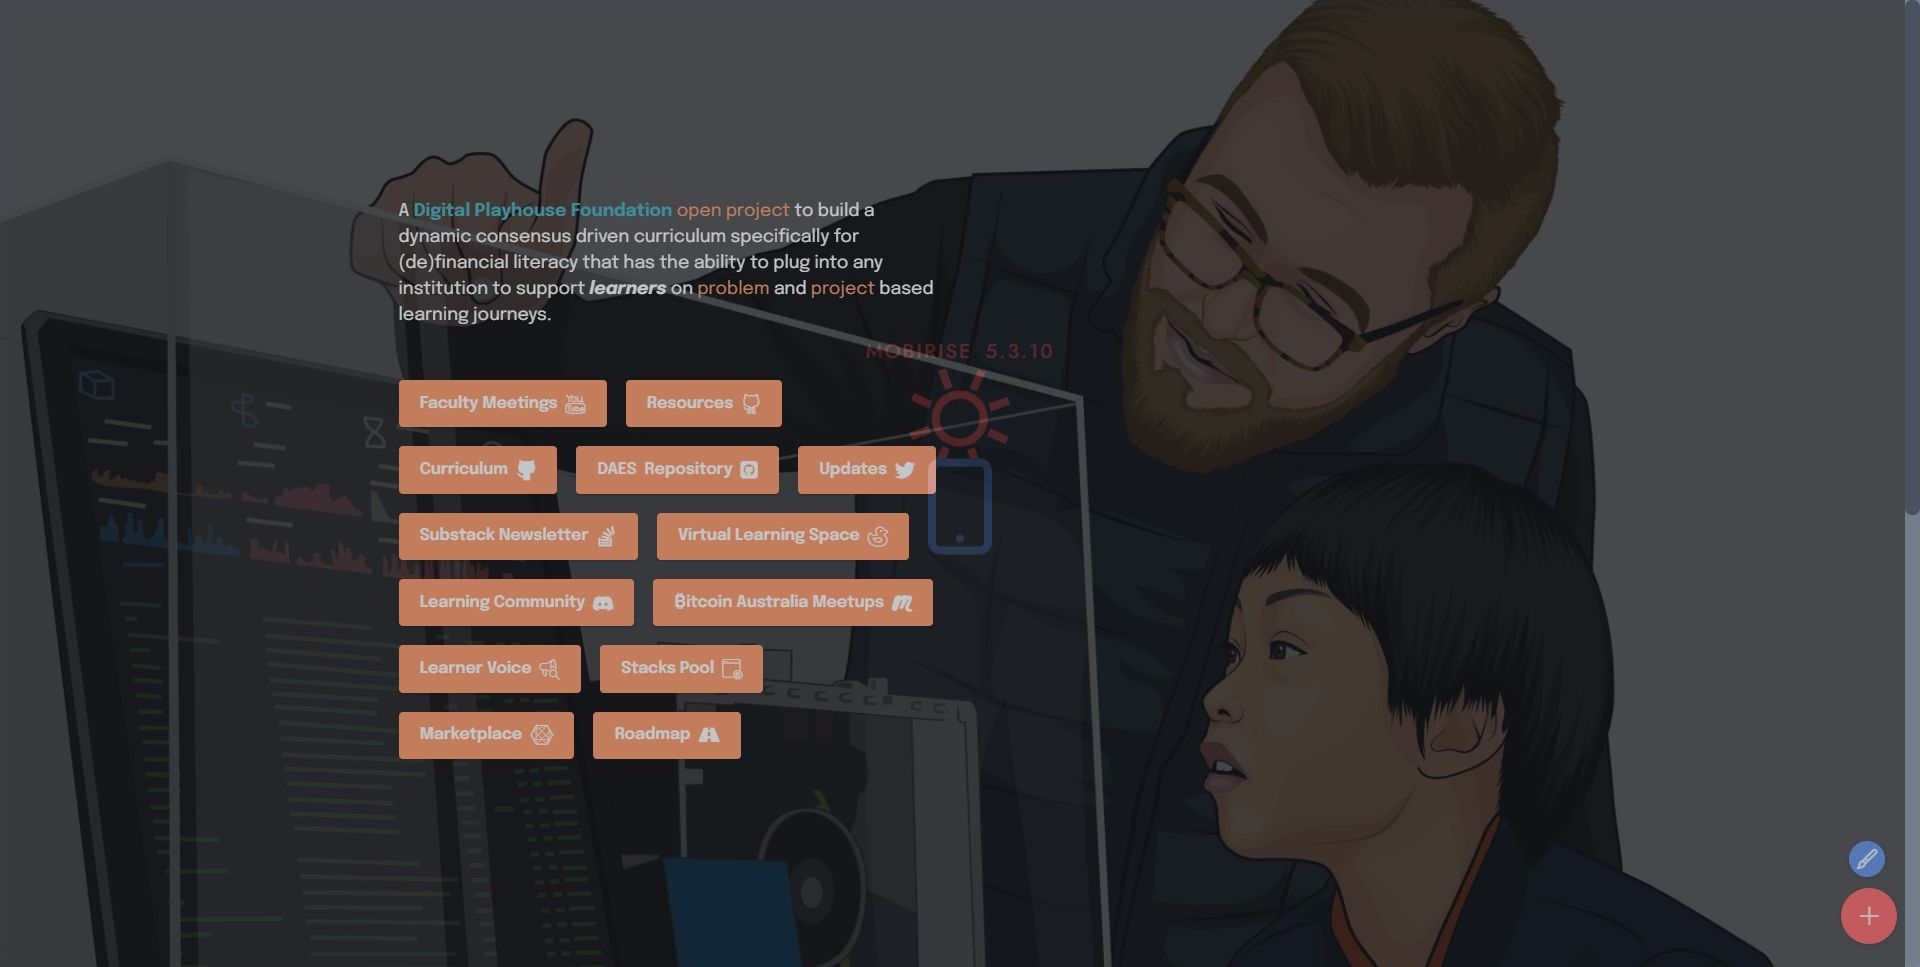
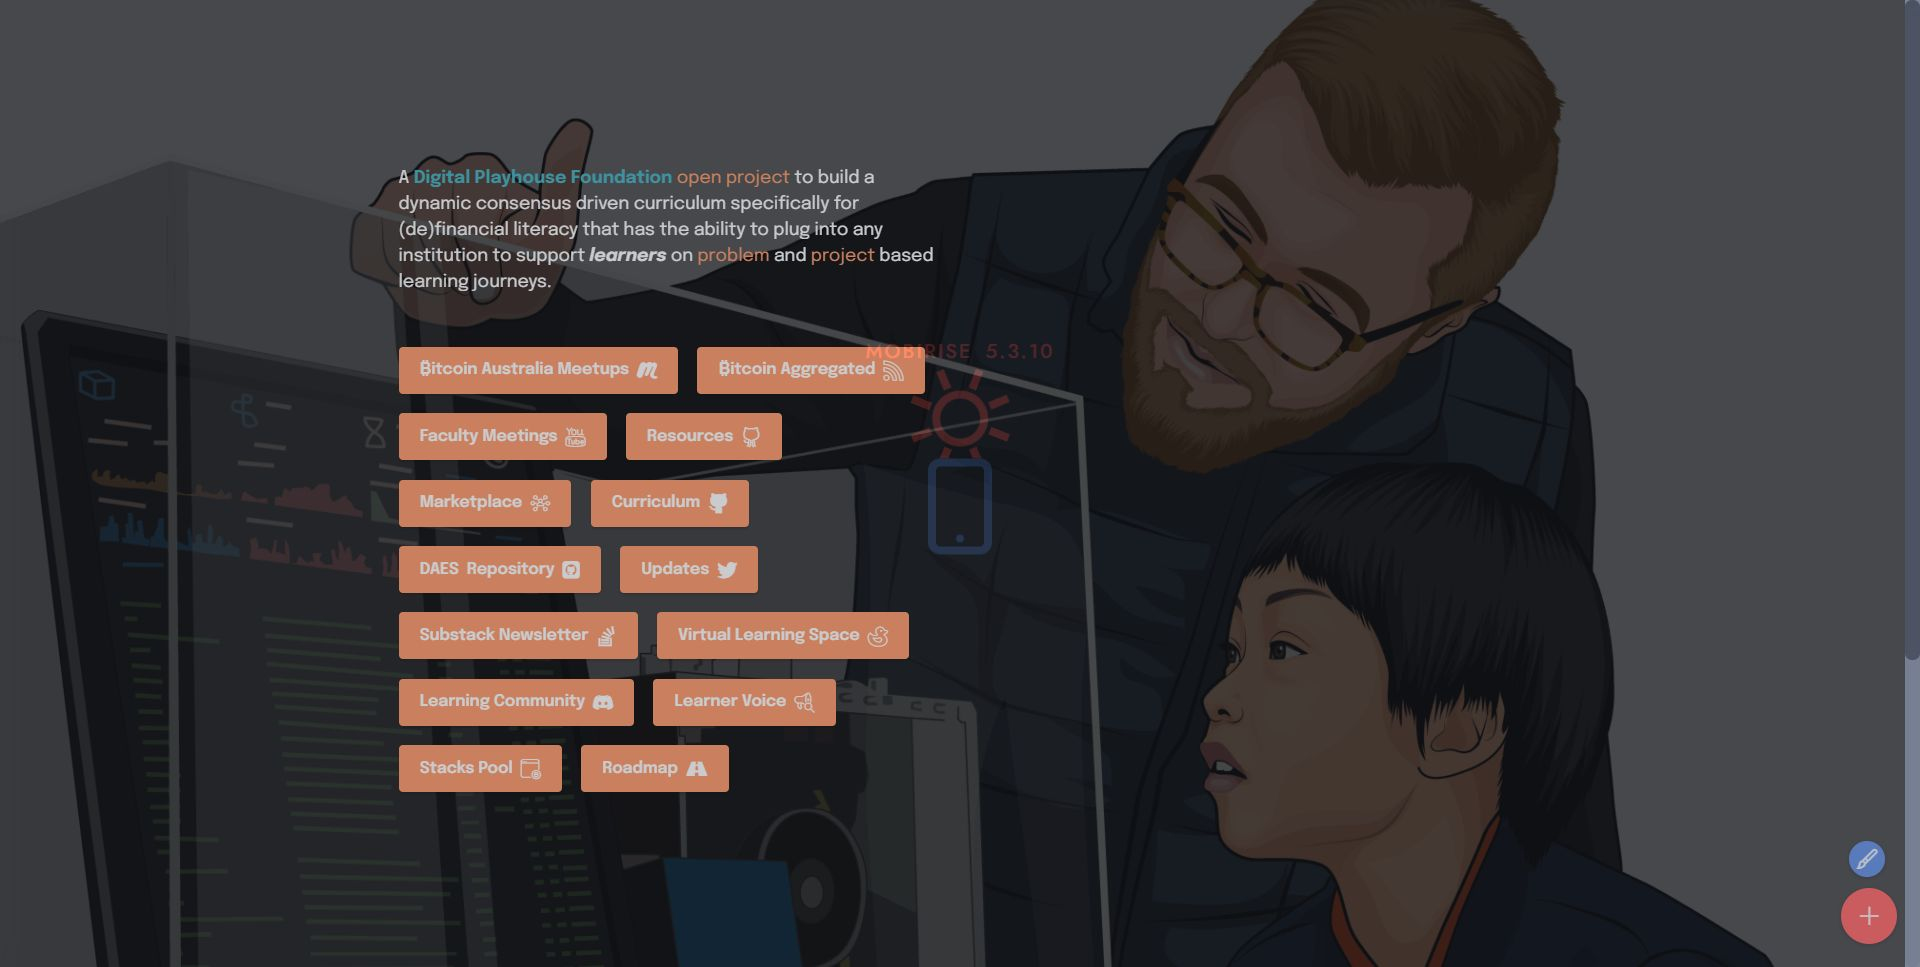
https://zoom.us/j/92727917932?pwd=TFVIOU83aXlHaENrZXBZZGd1dE1HQT09
https://zoom.us/j/92727917932?pwd=TFVIOU83aXlHaENrZXBZZGd1dE1HQT09

Changed region(s): [[0.1875, 0.1551, 0.5, 0.8376], [0.9688, 0.5274, 1.0, 0.6825]]

diff --git a/learnervoice.html b/learnervoice.html
@@ -12,11 +12,11 @@
   
   <title>learner voice</title>
   <link rel="stylesheet" href="assets/web/assets/mobirise-icons2/mobirise2.css">
-  <link rel="stylesheet" href="assets/FontAwesome/css/font-awesome.css">
+  <link rel="stylesheet" href="assets/web/assets/mobirise-icons/mobirise-icons.css">
   <link rel="stylesheet" href="assets/icon54-v2/style.css">
   <link rel="stylesheet" href="assets/icon54-v3/style.css">
+  <link rel="stylesheet" href="assets/FontAwesome/css/font-awesome.css">
   <link rel="stylesheet" href="assets/iconsMind/style.css">
-  <link rel="stylesheet" href="assets/web/assets/mobirise-icons/mobirise-icons.css">
   <link rel="stylesheet" href="assets/tether/tether.min.css">
   <link rel="stylesheet" href="assets/bootstrap/css/bootstrap.min.css">
   <link rel="stylesheet" href="assets/bootstrap/css/bootstrap-grid.min.css">
@@ -35,26 +35,7 @@
 </head>
 <body>
   
-  <section data-bs-version="5.1" class="menu menu1 cid-sYxxvlLIRv" once="menu" id="menu1-1e">
-    
-
-    <nav class="navbar navbar-dropdown navbar-expand-lg">
-        <div class="container-fluid">
-            <div class="navbar-brand">
-                <span class="navbar-logo">
-                    <a href="index.html">
-                        <img src="assets/images/smaller-thebitcoinschool-icon-341x243.png" alt="" style="height: 3rem;">
-                    </a>
-                </span>
-                <span class="navbar-caption-wrap"><a class="navbar-caption text-white display-7" href="#">The School of ₿itcoin</a></span>
-            </div>
-            
-            
-        </div>
-    </nav>
-</section>
-
-<section class="header10 cid-t8SRVa7gdn" id="header10-1n">
+  <section class="header10 cid-t8SRVa7gdn" id="header10-1n">
 
     
 
@@ -162,16 +143,16 @@
 
                 <div class="content-block">
                     <div class="accordion-content">
-                        <div id="bootstrap-accordion_9" class="panel-group accordionStyles accordion " role="tablist" aria-multiselectable="true">
+                        <div id="bootstrap-accordion_8" class="panel-group accordionStyles accordion " role="tablist" aria-multiselectable="true">
                             <div class="card">
                                 <div class="card-header" role="tab" id="headingOne">
-                                    <a role="button" class="collapsed panel-title" data-toggle="collapse" data-core="" href="#collapse1_9" aria-expanded="false" aria-controls="collapse1">
+                                    <a role="button" class="collapsed panel-title" data-toggle="collapse" data-core="" href="#collapse1_8" aria-expanded="false" aria-controls="collapse1">
                                         <h4 class="mbr-fonts-style header-text mbr-white mbr-semibold display-5">1</h4>
                                         <span class="sign mbr-iconfont mobi-mbri-plus inactive"></span>
 
                                     </a>
                                 </div>
-                                <div id="collapse1_9" class="panel-collapse noScroll collapse" role="tabpanel" aria-labelledby="headingOne" data-parent="#bootstrap-accordion_9">
+                                <div id="collapse1_8" class="panel-collapse noScroll collapse" role="tabpanel" aria-labelledby="headingOne" data-parent="#bootstrap-accordion_8">
                                     <div class="panel-body pt-4">
                                         <p class="mbr-fonts-style panel-text mbr-text mbr-white mb-3 mbr-regular display-4">What being independent means to me is being able to do things for yourself and being able to do what you what you want to. Yes being independent is important to me so that I can live my full potential<br></p>
                                     </div>
@@ -180,13 +161,13 @@
 
                             <div class="card">
                                 <div class="card-header" role="tab" id="headingTwo">
-                                    <a role="button" class="collapsed panel-title" data-toggle="collapse" data-core="" href="#collapse2_9" aria-expanded="false" aria-controls="collapse2">
+                                    <a role="button" class="collapsed panel-title" data-toggle="collapse" data-core="" href="#collapse2_8" aria-expanded="false" aria-controls="collapse2">
                                         <h4 class="mbr-fonts-style header-text mbr-white mbr-semibold display-5">2</h4>
                                         <span class="sign mbr-iconfont mobi-mbri-plus inactive"></span>
                                     </a>
 
                                 </div>
-                                <div id="collapse2_9" class="panel-collapse noScroll collapse" role="tabpanel" aria-labelledby="headingTwo" data-parent="#bootstrap-accordion_9">
+                                <div id="collapse2_8" class="panel-collapse noScroll collapse" role="tabpanel" aria-labelledby="headingTwo" data-parent="#bootstrap-accordion_8">
                                     <div class="panel-body pt-4">
                                         <p class="mbr-fonts-style panel-text mbr-text mbr-white mb-3 mbr-regular display-4">To me it means to do something by myself without the need of help. personally I find that doing something myself feels a lot more rewarding. I tend to procrastinate alot and it stops slows me down.<br></p>
                                     </div>
@@ -195,13 +176,13 @@
 
                             <div class="card">
                                 <div class="card-header" role="tab" id="headingThree">
-                                    <a role="button" class="collapsed panel-title" data-toggle="collapse" data-core="" href="#collapse3_9" aria-expanded="false" aria-controls="collapse3">
+                                    <a role="button" class="collapsed panel-title" data-toggle="collapse" data-core="" href="#collapse3_8" aria-expanded="false" aria-controls="collapse3">
                                         <h4 class="mbr-fonts-style header-text mbr-white mbr-semibold display-5">3</h4>
                                         <span class="sign mbr-iconfont mobi-mbri-plus inactive"></span>
 
                                     </a>
                                 </div>
-                                <div id="collapse3_9" class="panel-collapse noScroll collapse" role="tabpanel" aria-labelledby="headingThree" data-parent="#bootstrap-accordion_9">
+                                <div id="collapse3_8" class="panel-collapse noScroll collapse" role="tabpanel" aria-labelledby="headingThree" data-parent="#bootstrap-accordion_8">
                                     <div class="panel-body pt-4">
                                         <p class="mbr-fonts-style panel-text mbr-text mbr-white mb-3 mbr-regular display-4">It means that I can achieve things on my own. Yes it is important to me because I look forward to achieving my goal. Sometimes I get distracted by people talking but I achieve my goal in the end.&nbsp;<br></p>
                                     </div>
@@ -210,13 +191,13 @@
 
                             <div class="card">
                                 <div class="card-header" role="tab" id="headingFour">
-                                    <a role="button" class="collapsed panel-title" data-toggle="collapse" data-core="" href="#collapse4_9" aria-expanded="false" aria-controls="collapse4">
+                                    <a role="button" class="collapsed panel-title" data-toggle="collapse" data-core="" href="#collapse4_8" aria-expanded="false" aria-controls="collapse4">
                                         <h4 class="mbr-fonts-style header-text mbr-white mbr-semibold display-5">4</h4>
                                         <span class="sign mbr-iconfont mobi-mbri-plus inactive"></span>
 
                                     </a>
                                 </div>
-                                <div id="collapse4_9" class="panel-collapse noScroll collapse" role="tabpanel" aria-labelledby="headingFour" data-parent="#bootstrap-accordion_9">
+                                <div id="collapse4_8" class="panel-collapse noScroll collapse" role="tabpanel" aria-labelledby="headingFour" data-parent="#bootstrap-accordion_8">
                                     <div class="panel-body pt-4">
                                         <p class="mbr-fonts-style panel-text mbr-text mbr-white mb-3 mbr-regular display-4">Being able to achieve things on my own. Yes it is important to me because I look forward to achieving my goal. I get distracted by people sometimes but I do achieve my goal in the end.&nbsp; &nbsp; &nbsp;</p><p></p><p></p>
                                     </div>
@@ -225,13 +206,13 @@
 
                             <div class="card">
                                 <div class="card-header" role="tab" id="headingFive">
-                                    <a role="button" class="collapsed panel-title" data-toggle="collapse" data-core="" href="#collapse5_9" aria-expanded="false" aria-controls="collapse5">
+                                    <a role="button" class="collapsed panel-title" data-toggle="collapse" data-core="" href="#collapse5_8" aria-expanded="false" aria-controls="collapse5">
                                         <h4 class="mbr-fonts-style header-text mbr-white mbr-semibold display-5">5</h4>
                                         <span class="sign mbr-iconfont mobi-mbri-plus inactive"></span>
 
                                     </a>
                                 </div>
-                                <div id="collapse5_9" class="panel-collapse noScroll collapse" data-parent="#bootstrap-accordion_9" role="tabpanel" aria-labelledby="headingFive">
+                                <div id="collapse5_8" class="panel-collapse noScroll collapse" data-parent="#bootstrap-accordion_8" role="tabpanel" aria-labelledby="headingFive">
                                     <div class="panel-body pt-4">
                                         <p class="mbr-fonts-style panel-text mbr-text mbr-white mb-3 mbr-regular display-4">Independents is like when a bird gets pushed from its nest. Its when you go off and do what you want to do and where you can figure it out yourself. Achieving goals is you trying and not giving up.&nbsp;<br></p>
                                     </div>
@@ -240,13 +221,13 @@
 
                             <div class="card">
                                 <div class="card-header" role="tab" id="headingSix">
-                                    <a role="button" class="collapsed panel-title" data-toggle="collapse" data-core="" href="#collapse6_9" aria-expanded="false" aria-controls="collapse6">
+                                    <a role="button" class="collapsed panel-title" data-toggle="collapse" data-core="" href="#collapse6_8" aria-expanded="false" aria-controls="collapse6">
                                         <h4 class="mbr-fonts-style header-text mbr-white mbr-semibold display-5">6</h4>
                                         <span class="sign mbr-iconfont mobi-mbri-plus inactive"></span>
 
                                     </a>
                                 </div>
-                                <div id="collapse6_9" class="panel-collapse noScroll collapse" role="tabpanel" aria-labelledby="headingSix" data-parent="#bootstrap-accordion_9">
+                                <div id="collapse6_8" class="panel-collapse noScroll collapse" role="tabpanel" aria-labelledby="headingSix" data-parent="#bootstrap-accordion_8">
                                     <div class="panel-body pt-4">
                                         <p class="mbr-fonts-style panel-text mbr-text mbr-white mb-3 mbr-regular display-4">Independence creates emotions connected to freedom and responsibility. Yes it is important. Sometimes uncertainty slows me down.&nbsp;<br></p>
                                     </div>
@@ -274,6 +255,25 @@ Project</strong></a><br></p><p><a href="https://www.gnu.org/licenses/gpl-3.0.en.
             </div>
         </div>
     </div>
+</section>
+
+<section data-bs-version="5.1" class="menu menu1 cid-sYxxvlLIRv" once="menu" id="menu1-1e">
+    
+
+    <nav class="navbar navbar-dropdown navbar-expand-lg">
+        <div class="container-fluid">
+            <div class="navbar-brand">
+                <span class="navbar-logo">
+                    <a href="index.html">
+                        <img src="assets/images/smaller-thebitcoinschool-icon-341x243.png" alt="" style="height: 3rem;">
+                    </a>
+                </span>
+                <span class="navbar-caption-wrap"><a class="navbar-caption text-white display-7" href="#">The School of ₿itcoin</a></span>
+            </div>
+            
+            
+        </div>
+    </nav>
 </section>
 
 

diff --git a/BitcoinAustralia.html b/BitcoinAustralia.html
@@ -42,7 +42,7 @@
                 <div class="timeline-date col-12">
                     <div class="timeline-date-wrapper">
                         <p class="mbr-timeline-date display-7">
-                            <a href="https://calendar.google.com/event?action=TEMPLATE&tmeid=NGdicnFwcnRtcWNkNWxiN2pvZ21mcDBwNmVfMjAyMjA3MDdUMDczMDAwWiBrZG5vbGFuQG0&tmsrc=kdnolan%40gmail.com&scp=ALL" class="text-danger" target="_blank">1st Thursday of every month! 5:30 – 6:30pm (AEST)</a></p>
+                            <a href="https://zoom.us/j/92727917932?pwd=TFVIOU83aXlHaENrZXBZZGd1dE1HQT09" class="text-danger text-primary" target="_blank">1st Thursday of every month! 5:30 – 6:30pm (AEST)</a><br><a href="https://zoom.us/j/92727917932?pwd=TFVIOU83aXlHaENrZXBZZGd1dE1HQT09" class="text-info" target="_blank">https://zoom.us/j/92727917932?pwd=TFVIOU83aXlHaENrZXBZZGd1dE1HQT09<br></a></p>
                     </div>
                 </div>
                 <span class="iconBackground"></span>
@@ -55,7 +55,7 @@
                     <div class="timeline-text-wrapper">
                         <h4 class="mbr-timeline-title mbr-fonts-style mb-0 display-5"><strong>#trybrid events</strong></h4>
                         <p class="mbr-text mbr-fonts-style mt-3 mb-0 display-7">Join us 1st Thursday of every month! 5:30 – 6:30pm (AEST) #trybrid #Bitcoin #Meetups <a href="https://www.meetup.com/bitcoin-australia-melbourne/" class="text-danger" target="_blank">Melbourne</a>, <a href="https://www.meetup.com/bitcoin-australia-sydney/" class="text-danger" target="_blank">Sydney</a>, <a href="https://www.meetup.com/bitcoin-australia-regional-queensland/" class="text-danger" target="_blank">QLD </a>and NZ Bitcoiners! over Zoom, in person, on YouTube and in #VR
-<br><br><a href="https://hubs.mozilla.com/CmZSgSr/theschoolofbitcoin/" class="text-danger" target="_blank">Virtual Learning Space</a><br><a href="https://us02web.zoom.us/j/88098143575?pwd=aTZpRHFNRm1SbVJtdVoxQitLaUhaUT09" class="text-info" target="_blank">Zoom</a><a href="https://hubs.mozilla.com/CmZSgSr/theschoolofbitcoin/" class="text-danger" target="_blank"><br></a><a href="https://calendar.google.com/event?action=TEMPLATE&tmeid=NGdicnFwcnRtcWNkNWxiN2pvZ21mcDBwNmVfMjAyMjA3MDdUMDczMDAwWiBrZG5vbGFuQG0&tmsrc=kdnolan%40gmail.com&scp=ALL" class="text-warning" target="_blank">Google Calendar</a><br><br>#Education
+<br><br><a href="https://hubs.mozilla.com/CmZSgSr/theschoolofbitcoin/" class="text-danger" target="_blank">Virtual Learning Space</a><br><a href="https://zoom.us/j/92727917932?pwd=TFVIOU83aXlHaENrZXBZZGd1dE1HQT09" class="text-success" target="_blank">Zoom</a>&nbsp;<a href="https://hubs.mozilla.com/CmZSgSr/theschoolofbitcoin/" class="text-danger" target="_blank"><br></a><a href="https://calendar.google.com/event?action=TEMPLATE&tmeid=NGdicnFwcnRtcWNkNWxiN2pvZ21mcDBwNmVfMjAyMjA3MDdUMDczMDAwWiBrZG5vbGFuQG0&tmsrc=kdnolan%40gmail.com&scp=ALL" class="text-warning" target="_blank">Google Calendar</a><br><br>#Education
 <br>#Mining
 <br>@Stacks<br>#Bitcoin101<br>@digitalplayhs<br>@theschoolofbtc<br>@StacksAustralia
 <br>@BTCAGGREGATED<br>&nbsp;<br></p>
@@ -90,15 +90,15 @@
                         <strong>Locations</strong></h3>
                     
                 </div>
-                <div id="bootstrap-accordion_5" class="panel-group accordionStyles accordion" role="tablist" aria-multiselectable="true">
+                <div id="bootstrap-accordion_4" class="panel-group accordionStyles accordion" role="tablist" aria-multiselectable="true">
                     <div class="card mb-3">
                         <div class="card-header" role="tab" id="headingOne">
-                            <a role="button" class="panel-title collapsed" data-toggle="collapse" data-core="" href="#collapse1_5" aria-expanded="false" aria-controls="collapse1">
+                            <a role="button" class="panel-title collapsed" data-toggle="collapse" data-core="" href="#collapse1_4" aria-expanded="false" aria-controls="collapse1">
                                 <h6 class="panel-title-edit mbr-fonts-style mb-0 display-7"><strong>Melbourne</strong></h6>
                                 <span class="sign mbr-iconfont mbri-arrow-down"></span>
                             </a>
                         </div>
-                        <div id="collapse1_5" class="panel-collapse noScroll collapse" role="tabpanel" aria-labelledby="headingOne" data-parent="#bootstrap-accordion_5">
+                        <div id="collapse1_4" class="panel-collapse noScroll collapse" role="tabpanel" aria-labelledby="headingOne" data-parent="#bootstrap-accordion_4">
                             <div class="panel-body">
                                 <p class="mbr-fonts-style panel-text display-4"><a href="https://www.meetup.com/bitcoin-australia-melbourne/" class="text-danger" target="_blank">https://www.meetup.com/bitcoin-australia-melbourne/</a></p>
                             </div>
@@ -106,12 +106,12 @@
                     </div>
                     <div class="card mb-3">
                         <div class="card-header" role="tab" id="headingOne">
-                            <a role="button" class="panel-title collapsed" data-toggle="collapse" data-core="" href="#collapse2_5" aria-expanded="false" aria-controls="collapse2">
+                            <a role="button" class="panel-title collapsed" data-toggle="collapse" data-core="" href="#collapse2_4" aria-expanded="false" aria-controls="collapse2">
                                 <h6 class="panel-title-edit mbr-fonts-style mb-0 display-7"><strong>Queensland</strong></h6>
                                 <span class="sign mbr-iconfont mbri-arrow-down"></span>
                             </a>
                         </div>
-                        <div id="collapse2_5" class="panel-collapse noScroll collapse" role="tabpanel" aria-labelledby="headingOne" data-parent="#bootstrap-accordion_5">
+                        <div id="collapse2_4" class="panel-collapse noScroll collapse" role="tabpanel" aria-labelledby="headingOne" data-parent="#bootstrap-accordion_4">
                             <div class="panel-body">
                                 <p class="mbr-fonts-style panel-text display-4">
                                     <a href="https://www.meetup.com/bitcoin-australia-regional-queensland/" class="text-danger" target="_blank">https://www.meetup.com/bitcoin-australia-regional-queensland/</a></p>
@@ -120,12 +120,12 @@
                     </div>
                     <div class="card mb-3">
                         <div class="card-header" role="tab" id="headingOne">
-                            <a role="button" class="panel-title collapsed" data-toggle="collapse" data-core="" href="#collapse3_5" aria-expanded="false" aria-controls="collapse3">
+                            <a role="button" class="panel-title collapsed" data-toggle="collapse" data-core="" href="#collapse3_4" aria-expanded="false" aria-controls="collapse3">
                                 <h6 class="panel-title-edit mbr-fonts-style mb-0 display-7"><strong>Sydney</strong></h6>
                                 <span class="sign mbr-iconfont mbri-arrow-down"></span>
                             </a>
                         </div>
-                        <div id="collapse3_5" class="panel-collapse noScroll collapse" role="tabpanel" aria-labelledby="headingOne" data-parent="#bootstrap-accordion_5">
+                        <div id="collapse3_4" class="panel-collapse noScroll collapse" role="tabpanel" aria-labelledby="headingOne" data-parent="#bootstrap-accordion_4">
                             <div class="panel-body">
                                 <p class="mbr-fonts-style panel-text display-4">
                                     <a href="https://www.meetup.com/bitcoin-australia-sydney/" class="text-danger" target="_blank">https://www.meetup.com/bitcoin-australia-sydney/</a></p>
@@ -134,12 +134,12 @@
                     </div>
                     <div class="card mb-3">
                         <div class="card-header" role="tab" id="headingOne">
-                            <a role="button" class="panel-title collapsed" data-toggle="collapse" data-core="" href="#collapse4_5" aria-expanded="false" aria-controls="collapse4">
+                            <a role="button" class="panel-title collapsed" data-toggle="collapse" data-core="" href="#collapse4_4" aria-expanded="false" aria-controls="collapse4">
                                 <h6 class="panel-title-edit mbr-fonts-style mb-0 display-7"><strong>Virtual Reality</strong></h6>
                                 <span class="sign mbr-iconfont mbri-arrow-down"></span>
                             </a>
                         </div>
-                        <div id="collapse4_5" class="panel-collapse noScroll collapse" role="tabpanel" aria-labelledby="headingOne" data-parent="#bootstrap-accordion_5">
+                        <div id="collapse4_4" class="panel-collapse noScroll collapse" role="tabpanel" aria-labelledby="headingOne" data-parent="#bootstrap-accordion_4">
                             <div class="panel-body">
                                 <p class="mbr-fonts-style panel-text display-4">
                                     <a href="https://hubs.mozilla.com/CmZSgSr/theschoolofbitcoin/" class="text-danger" target="_blank">https://hubs.mozilla.com/CmZSgSr/theschoolofbitcoin/</a></p>
